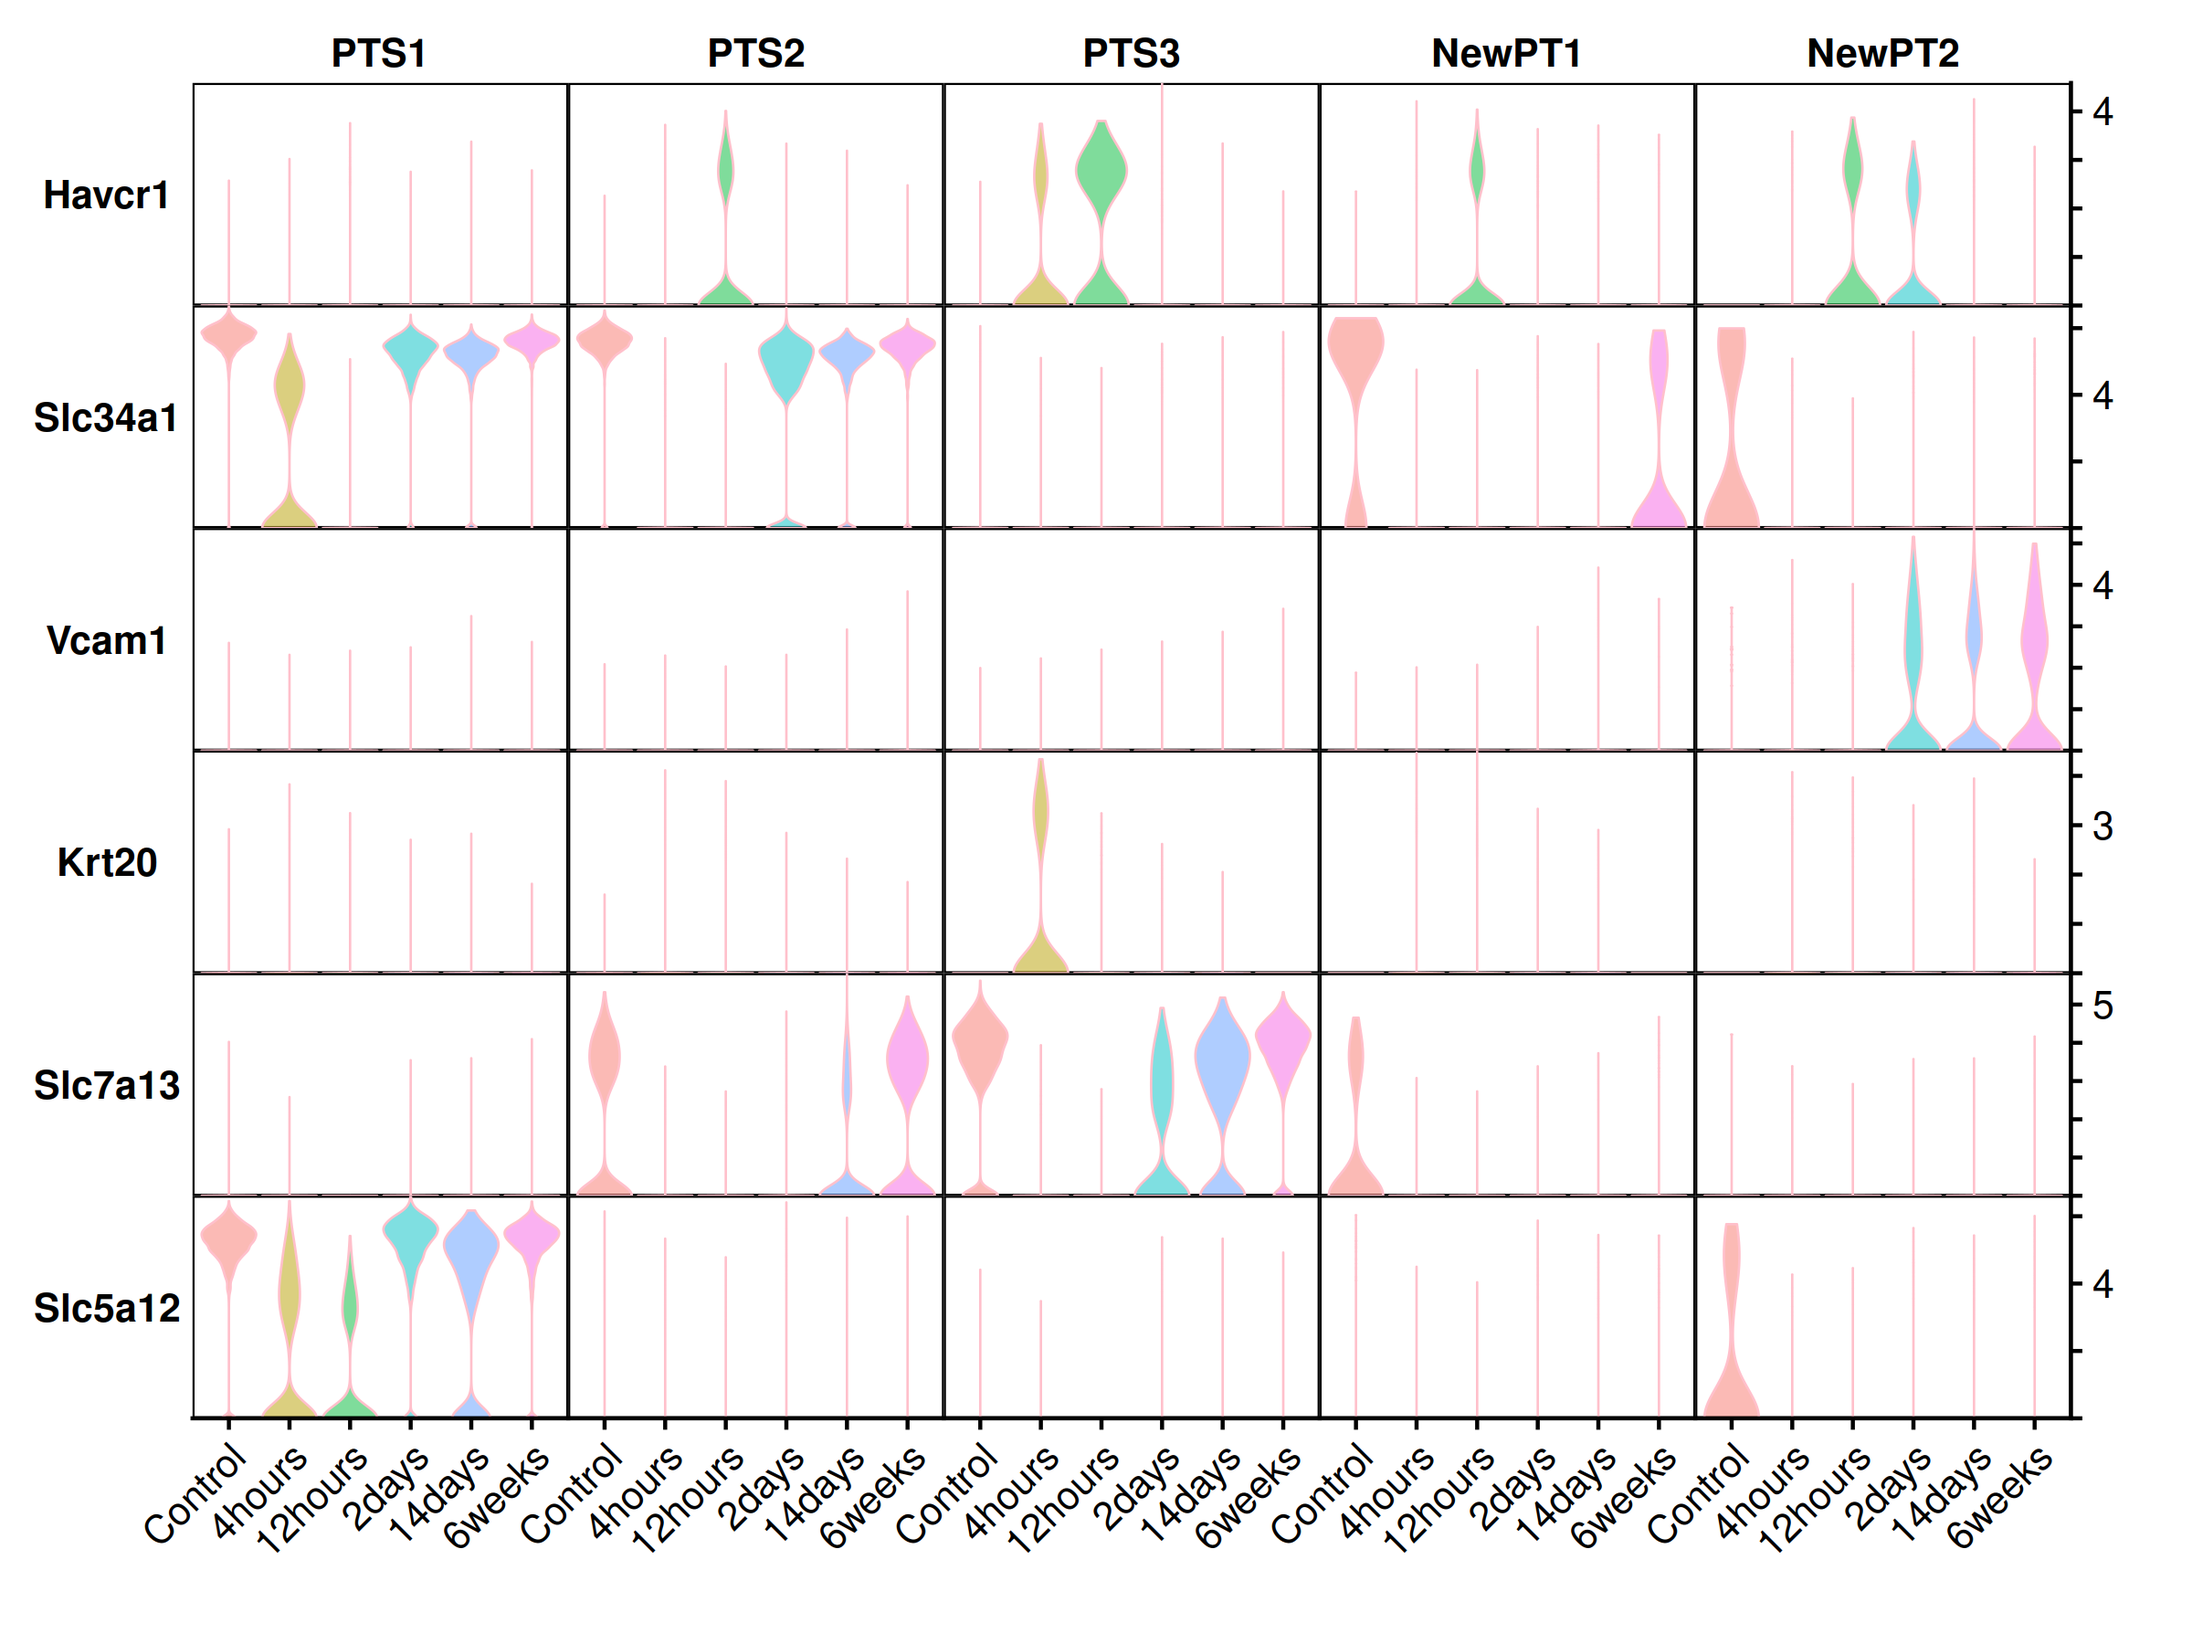
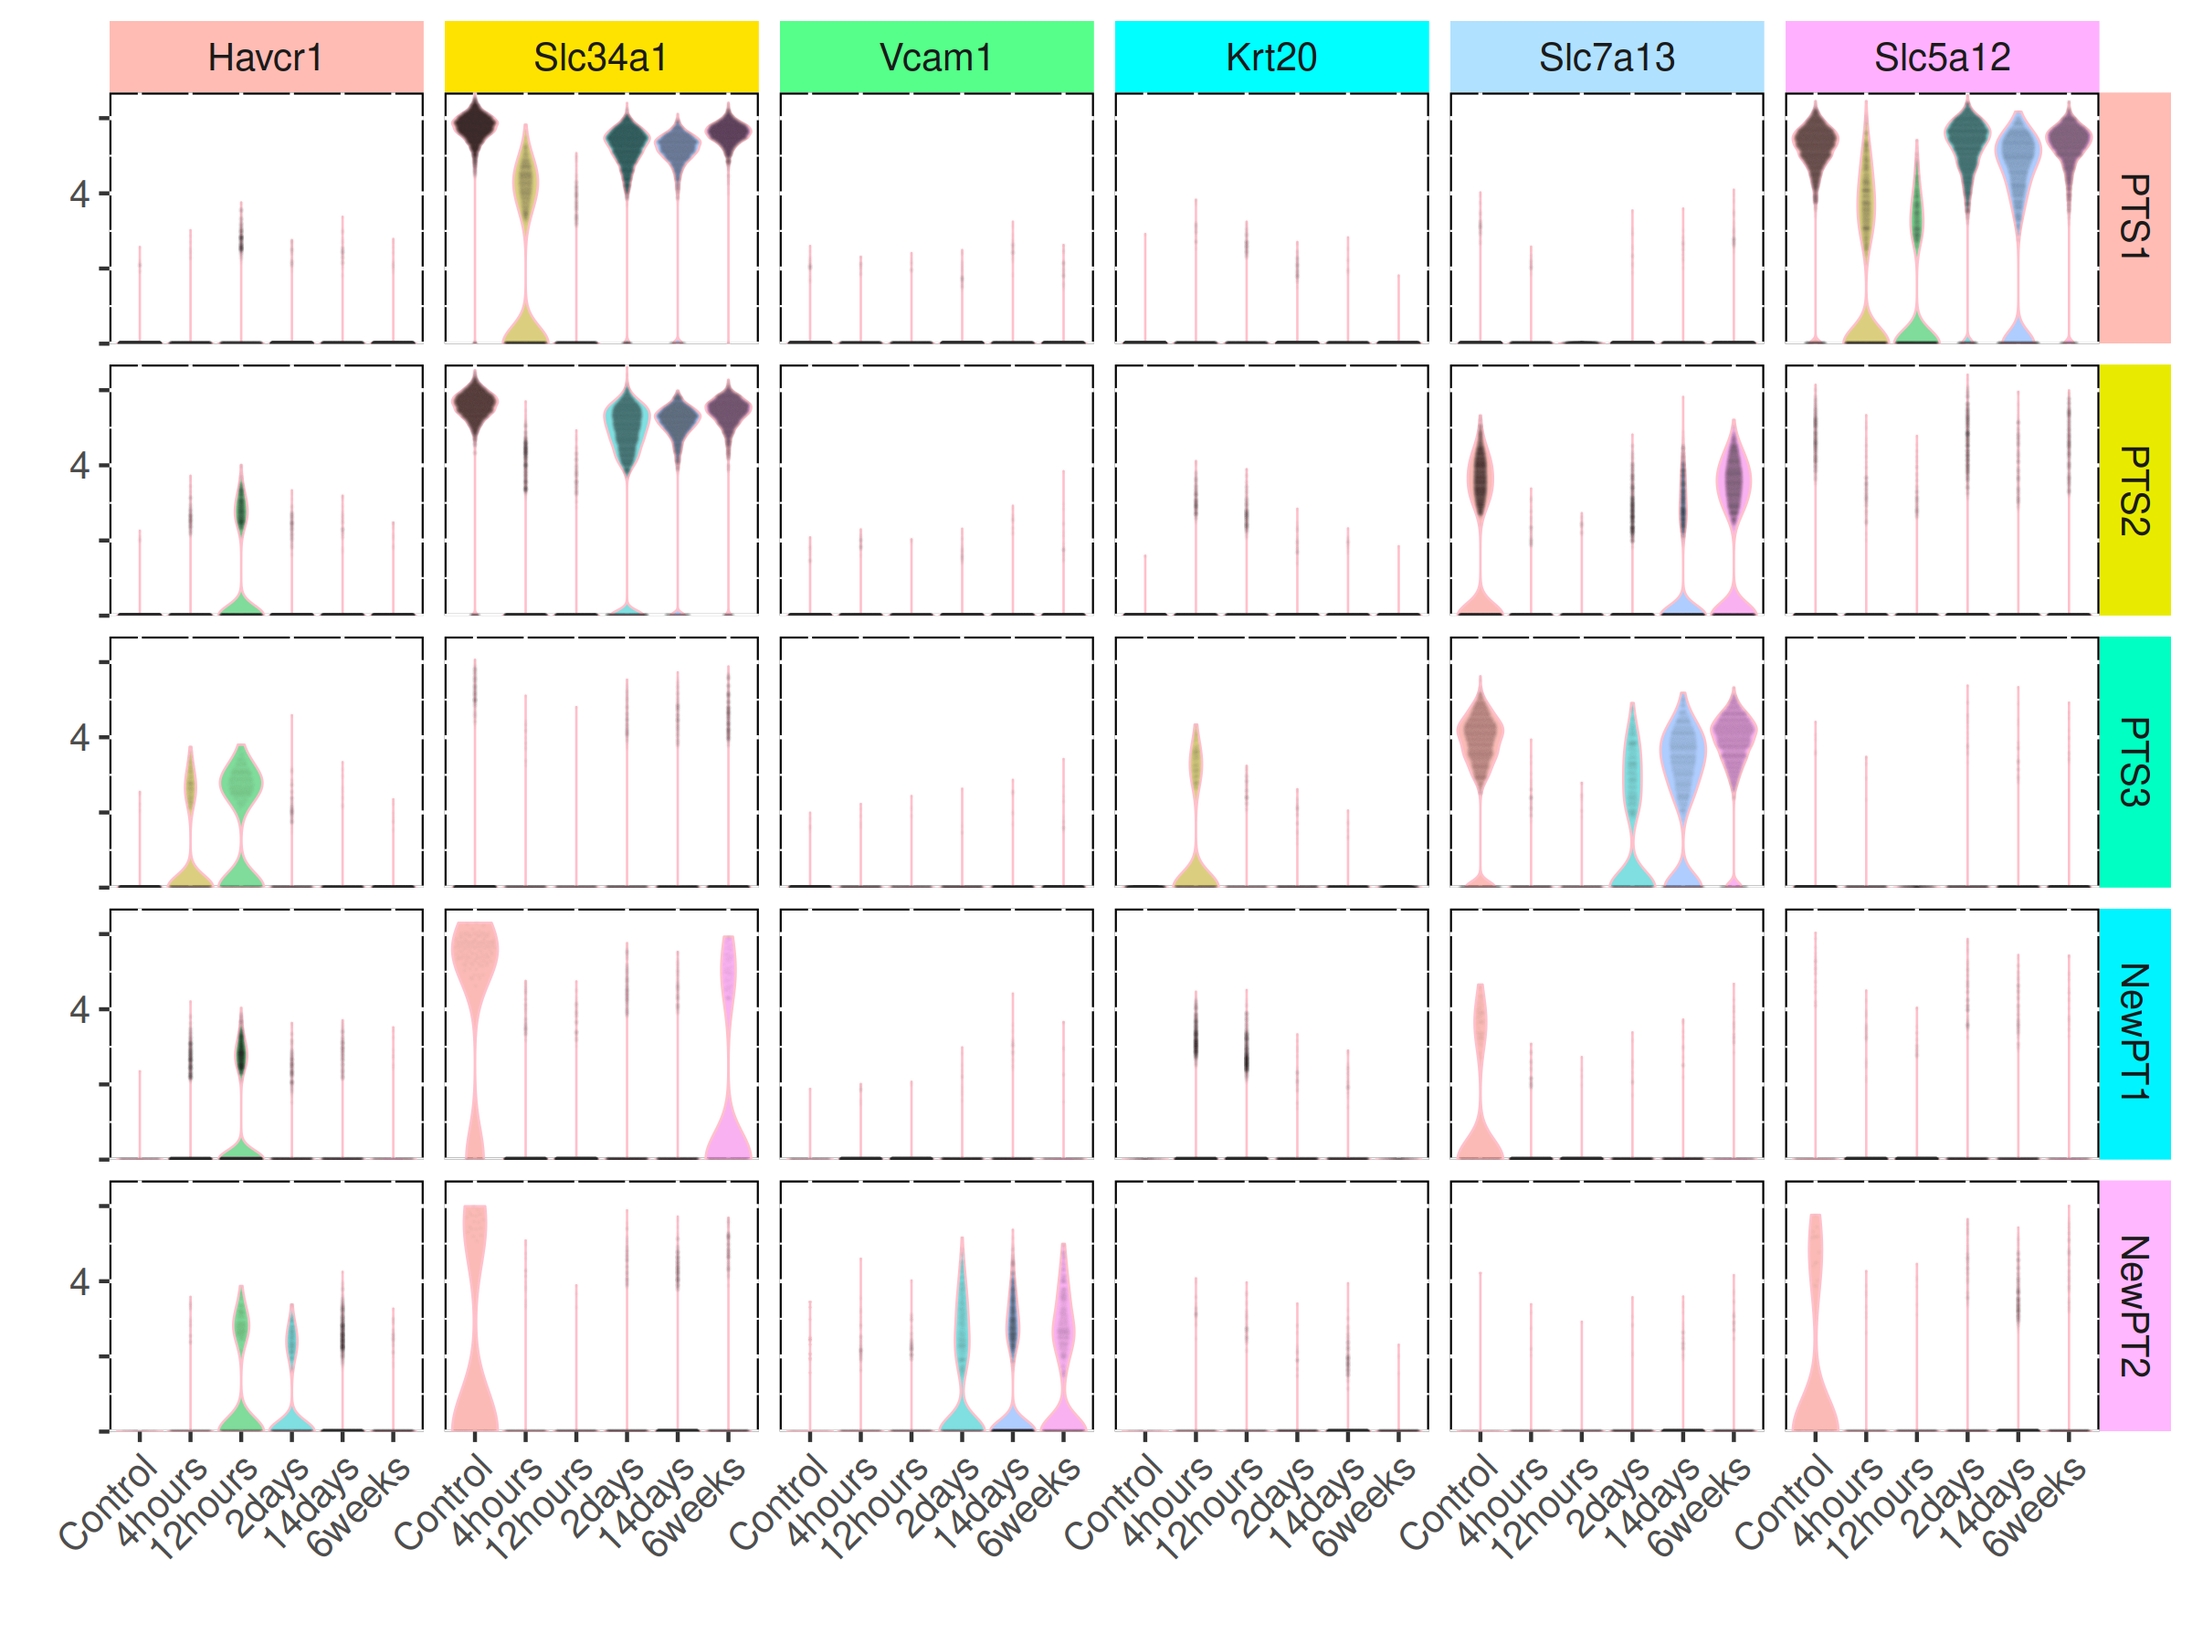
fix violinplot

diff --git a/README.md b/README.md
@@ -90,7 +90,7 @@ dev.off()
 ![alt text](https://github.com/HaojiaWu/Plot1cell/blob/master/data/vlnplot_single_split.png) <br />
 #### One gene/multiple group factors violin plot:
 ```
-png(filename =  'vlnplot_multiple.png', width = 8, height = 6,units = 'in', res = 300)
+png(filename =  'vlnplot_multiple.png', width = 6, height = 6,units = 'in', res = 300)
 complex_vlnplot_single(iri.integrated, feature = "Havcr1", groups = c("Group","Replicates"),celltypes   = c("PTS1" ,   "PTS2"  ,  "PTS3"  ,  "NewPT1" , "NewPT2"))
 dev.off()
 ```
@@ -101,7 +101,7 @@ Note that the Replicates group here is for demo purpose. This is not the mouse I
 #### Multiple genes/one group factor violin plot:
 ```
 png(filename =  'vlnplot_multiple_genes.png', width = 8, height = 6,units = 'in', res = 300)
-complex_vlnplot_multiple(iri.integrated, features = c("Havcr1",  "Slc34a1", "Vcam1",   "Krt20"  , "Slc7a13", "Slc5a12"), celltypes = c("PTS1" ,   "PTS2"  ,  "PTS3"  ,  "NewPT1" , "NewPT2"), group = "Group", add.dot=T, pt.size=0.001, alpha=0.001)
+complex_vlnplot_multiple(iri.integrated, features = c("Havcr1",  "Slc34a1", "Vcam1",   "Krt20"  , "Slc7a13", "Slc5a12"), celltypes = c("PTS1" ,   "PTS2"  ,  "PTS3"  ,  "NewPT1" , "NewPT2"), group = "Group", add.dot=T, pt.size=0.01, alpha=0.01, font.size = 10)
 dev.off()
 ```
 ![alt text](https://github.com/HaojiaWu/Plot1cell/blob/master/data/vlnplot_multiple_genes.png) <br />
@@ -156,7 +156,7 @@ help(package = plot1cell)
 Many more functions will be added in the future package development. For questions, please raise an issue in this github page or contact <a href="https://humphreyslab.com">TheHumphreysLab</a>. 
 
 ### 9. Attributions
-This package uses many methods from Seurat (https://github.com/satijalab/seurat) to process the data for ploting. The circlize and heatmap plots were generated by the circlize (https://github.com/jokergoo/circlize) and ComplexHeatmap (https://github.com/jokergoo/ComplexHeatmap) packages. The Upset plot was generated by the ComplexUpset package (https://github.com/krassowski/complex-upset). The violin plot to show multiple genes across groups was inspired by the codes provided here (https://github.com/ycl6/StackedVlnPlot). Most of the graphs were generated by ggplot2 (https://github.com/tidyverse/ggplot2). The package benefits from the following dependencies.
+This package uses many methods from Seurat (https://github.com/satijalab/seurat) to process the data for ploting. The circlize and heatmap plots were generated by the circlize (https://github.com/jokergoo/circlize) and ComplexHeatmap (https://github.com/jokergoo/ComplexHeatmap) packages. The Upset plot was generated by the ComplexUpset package (https://github.com/krassowski/complex-upset). Most of the graphs were generated by ggplot2 (https://github.com/tidyverse/ggplot2). The package benefits from the following dependencies.
 
 ```
     Seurat,
